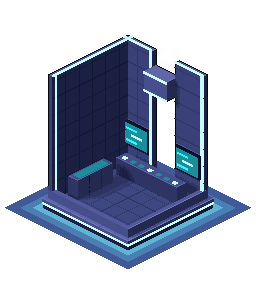
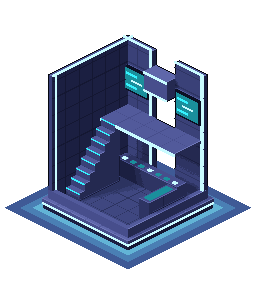
GRID-35: the opened tower and hall are drawn with their floors and stairs
Every upper floor reaches two floor squares out from the back wall. A stair
goes up the left wall to the first floor; in the tower a second goes up along
the back wall and comes out through the second floor. A bot inside a tall
building is drawn on its floor, a step up from the paving, and a test holds
the floors in the pictures to where the game stands a bot.

Changed region(s): [[0.25, 0.2188, 0.8125, 0.6875], [0.5312, 0.625, 0.7188, 0.7812], [0.6562, 0.3125, 0.8125, 0.4375]]

diff --git a/tools/art/buildings.py b/tools/art/buildings.py
@@ -175,9 +175,41 @@ def rack(x, y, along_back):
             light(x + .19, y, .42 + i * .19, .012, .38, .07, "teal" if i % 2 else "cyan")
 
 
+# A tall building has floors. The game stands bots on them (Core/Layout.cs: StoreyPixels, FloorReach, the stairs' ends), and
+# a test holds the two together, so change these only with those.
+STOREY = 1.5                    # from one floor to the next
+REACH = 2 * kit.PANEL           # how far an upper floor reaches out from the back wall: two floor squares
+
+
+def upper_floor(x0, x1, w, z, lit, depth=REACH, back=0.0):
+    """A floor along the back wall from x0 to x1, its top at z, with the line of light along its open edge. `back` leaves
+    it short of the wall by so much: the walk beside the well a stair comes up through."""
+    y1 = w / 2 - .14 - back
+    box((x0 + x1) / 2, y1 - (depth - back) / 2, z - .08, x1 - x0, depth - back, .08, "c0", "g4", "g2")
+    light((x0 + x1) / 2, w / 2 - .14 - depth - .012, z - .08, x1 - x0, .02, .08, lit)
+
+
+def stair(x0, y0, z0, x1, y1, steps=8, wide=.42):
+    """A flight up one storey from (x0, y0) to (x1, y1), along x or along y, as solid steps with a lit edge to each."""
+    along_y = abs(y1 - y0) > abs(x1 - x0)
+    run = (abs(y1 - y0) if along_y else abs(x1 - x0)) / steps
+    for i in range(steps):
+        t = (i + .5) / steps
+        x, y, top = x0 + (x1 - x0) * t, y0 + (y1 - y0) * t, z0 + STOREY * (i + 1) / steps
+        if along_y:
+            box(x, y, z0, wide, run, top - z0, "c0", "g4", "g2"); light(x, y - run / 2 - .006, top - .03, wide, .012, .03, "cyan")
+        else:
+            box(x, y, z0, run, wide, top - z0, "c0", "g4", "g2"); light(x, y - wide / 2 - .006, top - .03, run, .012, .03, "cyan")
+
+
+def first_stair(w):
+    """Up the left wall from the ground floor to the first, landing on it."""
+    stair(-.87, -.85, .25, -.87, .4)
+
+
 def server_tower_open():
-    """The server tower with a bot at work in it. Told by: racks along both far walls, storey on storey of them up the
-    inside, and two of its roof fans on a ledge over the back wall."""
+    """The server tower with a bot at work in it. Told by: racks along the back wall on each of its three floors, a stair
+    up the left wall and another up the back, and two of its roof fans on a ledge over the back wall."""
     w, h, lit = 2.5, 5.0, "cyanw"
     opened(w, w, h, lit)
     back_wall(0, w, w, h, lit)
@@ -191,28 +223,39 @@ def server_tower_open():
                 light(-w / 2 + .152, -.9 + i * .45, z + .1, .012, .3, .22, "teal")
     for x in (-.75, -.05, .65):
         rack(x, w / 2 - .42, True)
-    for y in (-.6, .15):
-        rack(-w / 2 + .42, y, False)
+    left, right, g1, g2 = -w / 2 + .14, w / 2 - .06, .25 + STOREY, .25 + 2 * STOREY
+    first_stair(w)
+    upper_floor(left, right, w, g1, lit)
+    stair(-.87, .87, g1, .05, .87, wide=.4)             # the second stair, up along the back wall from the left
+    upper_floor(.05, right, w, g2, lit)                 # the second floor: whole on the right,
+    upper_floor(left, .05, w, g2, lit, back=.44)        # and a walk past the well the stair comes up through
+    for z in (g1, g2):                                  # a rack on each upper floor
+        box(.75, w / 2 - .34, z, .52, .3, .8, "g5", "g3", "g2")
+        for i in range(3):
+            light(.75, w / 2 - .5, z + .15 + i * .2, .38, .012, .07, "cyan" if i % 2 else "teal")
     box(0, w / 2 - .5, h, w + .12, 1.1, .14, *TRIM); fan(-.6, w / 2 - .55, h + .14); fan(.6, w / 2 - .55, h + .14)
     render("b-server-tower-open", 256, 352, 80)
 
 
 def review_hall_open():
-    """The review hall with a bot at work in it. Told by: its back wall in two with the bridge across the top, two wall
-    screens side by side to compare, and a console of buttons under them."""
+    """The review hall with a bot at work in it. Told by: its back wall in two with the bridge across the top, an upper
+    floor with two wall screens side by side to compare, and a console of buttons on the ground under it."""
     w, h, lit = 2.5, 3.4, "cyanw"
     opened(w, w, h, lit)
     back_wall(-.8, .9, w, h, lit, right_edge=True); back_wall(.8, .9, w, h, lit, right_edge=True)
     box(0, w / 2 - .2, 2.5, .72, .4, .5, *TRIM)                                       # the bridge
     light(0, w / 2 - .41, 2.5, .72, .02, .05, lit); light(0, w / 2 - .41, 2.95, .72, .02, .05, lit)
-    for x in (-.8, .8):                                                               # a screen on each half of the wall
-        box(x, w / 2 - .18, .75, .78, .05, .62, "k1"); light(x, w / 2 - .21, .8, .68, .02, .52, "teal")
+    g1 = .25 + STOREY
+    first_stair(w)
+    upper_floor(-w / 2 + .14, w / 2 - .06, w, g1, lit)
+    for x in (-.8, .8):                                                               # a screen on each half of the wall, upstairs
+        box(x, w / 2 - .18, g1 + .4, .78, .05, .62, "k1"); light(x, w / 2 - .21, g1 + .45, .68, .02, .52, "teal")
         for i in range(3):
-            light(x - .12 + (i % 2) * .16, w / 2 - .225, .88 + i * .15, .34, .012, .05, "cyanw" if i == 1 else "cyan")
+            light(x - .12 + (i % 2) * .16, w / 2 - .225, g1 + .53 + i * .15, .34, .012, .05, "cyanw" if i == 1 else "cyan")
     box(0, w / 2 - .52, .25, 1.9, .32, .42, "g5", "g3", "g2")                         # the console, its buttons along the front
     for i in range(7):
         light(-.78 + i * .26, w / 2 - .56, .67, .12, .1, .02, "cyanw" if i % 3 == 0 else "teal")
-    box(-w / 2 + .38, -.3, .25, .3, 1.1, .5, "g5", "g3", "g2"); light(-w / 2 + .38, -.3, .75, .2, .9, .02, "teal")   # a reading desk
+    box(w / 2 - .3, 0, .25, .3, .9, .5, "g5", "g3", "g2"); light(w / 2 - .3, 0, .75, .2, .7, .02, "teal")   # a reading desk
     render("b-review-hall-open", 256, 288, 80)
 
 

diff --git a/Assets/TheGrid/Tests/LayoutTests.cs b/Assets/TheGrid/Tests/LayoutTests.cs
@@ -111,7 +111,7 @@ namespace TheGrid.Core.Tests
                     for (int slot = 0; slot < 6; slot++)
                     {
                         // the tile it stands over: a bot on an upper floor is drawn a storey up for each floor
-                        var t = Tile(Iso.BotSpot(Iso.PlotOrigin(cell), l, place, slot) - new Vector2(0, l.Floor(place, slot) * Layout.StoreyPixels));
+                        var t = Tile(Iso.BotSpot(Iso.PlotOrigin(cell), l, place, slot) - new Vector2(0, l.Lift(place, slot)));
                         var tile = new Vector2Int(Mathf.RoundToInt(t.x), Mathf.RoundToInt(t.y));
                         string who = "arrangement " + a + ": " + place + " slot " + slot + " at " + t;
                         Assert.IsTrue(t.x >= -.5f && t.y >= -.5f && t.x <= Iso.PlotTiles - .5f && t.y <= Iso.PlotTiles - .5f, who + " is off the plot");
@@ -221,20 +221,26 @@ namespace TheGrid.Core.Tests
                     for (int floor = 0; floor < floors; floor++)
                         Assert.AreEqual(Layout.Inside / floors, on.Count(f => f == floor), "arrangement " + a + ": " + place + " floor " + floor);
                     Assert.AreEqual(0, l.Floor(place, Layout.Inside), "the one waiting at the door stands on the ground");
+                    Assert.AreEqual(0f, l.Lift(place, Layout.Inside), "and on the paving");
                     var f0 = l.Footprint(World.StructureOf(place).Value);
                     for (int slot = 0; slot < Layout.Inside; slot++)
                     {
                         var origin = new Vector2Int(7, -30);
                         var t = l.Spot(place, slot);
-                        // a floor up is so many pixels up the screen, whatever the floor
-                        Assert.AreEqual(Iso.Point(origin.x + t.x, origin.y + t.y).y + l.Floor(place, slot) * Layout.StoreyPixels, Iso.BotSpot(origin, l, place, slot).y, .01f);
+                        // the floor of the room is a step up from the paving, and a floor up is so many pixels more, whatever the floor
+                        Assert.AreEqual(Layout.FloorPixels + l.Floor(place, slot) * Layout.StoreyPixels, l.Lift(place, slot), .01f);
+                        Assert.AreEqual(Iso.Point(origin.x + t.x, origin.y + t.y).y + l.Lift(place, slot), Iso.BotSpot(origin, l, place, slot).y, .01f);
                         // an upper floor reaches two floor squares out from the back wall: who stands on it stands within them
                         if (l.Floor(place, slot) > 0)
                             Assert.IsTrue(t.y - f0.yMin > -.1f && t.y - f0.yMin < Layout.FloorReach - .1f, "arrangement " + a + ": " + place + " slot " + slot + " at " + t + " is off its floor");
                     }
                 }
                 foreach (var place in Places.Except(Tall))
-                    for (int slot = 0; slot < 8; slot++) Assert.AreEqual(0, l.Floor(place, slot), place.ToString());
+                    for (int slot = 0; slot < 8; slot++)
+                    {
+                        Assert.AreEqual(0, l.Floor(place, slot), place.ToString());
+                        Assert.AreEqual(0f, l.Lift(place, slot), place.ToString());
+                    }
             }
         }
 
@@ -265,8 +271,13 @@ namespace TheGrid.Core.Tests
                             if (i > 1) Assert.IsTrue(Within(p) && Within(q), who + ": leg " + i + " leaves the building");
                             if (p.z == q.z)
                             {
-                                // along a floor; an upper floor is only so deep
-                                if (p.z > 0) Assert.IsTrue(p.y - f.yMin < Layout.FloorReach - .1f && q.y - f.yMin < Layout.FloorReach - .1f, who + ": leg " + i + " walks off the edge of floor " + p.z);
+                                // along a floor; an upper floor is only so deep, and where a stair comes up through it there is
+                                // only a walk along its edge: so up there a bot turns square corners
+                                if (p.z > 0)
+                                {
+                                    Assert.IsTrue(p.y - f.yMin < Layout.FloorReach - .1f && q.y - f.yMin < Layout.FloorReach - .1f, who + ": leg " + i + " walks off the edge of floor " + p.z);
+                                    Assert.IsTrue(p.x == q.x || p.y == q.y, who + ": leg " + i + " cuts a corner on floor " + p.z);
+                                }
                                 continue;
                             }
                             // a stair: one floor up, along a wall, long enough to be a stair
@@ -286,6 +297,12 @@ namespace TheGrid.Core.Tests
                 var points = Iso.Way(origin, l, Place.ServerTower, 2);
                 Assert.AreEqual(l.Way(Place.ServerTower, 2).Count, points.Count);
                 Assert.AreEqual(Iso.BotSpot(origin, l, Place.ServerTower, 2), points[points.Count - 1]);
+                var door = l.Way(Place.ServerTower, 2)[0];
+                Assert.AreEqual(Iso.Point(origin.x + door.x, origin.y + door.y), points[0], "the door is on the paving");
+                // the second floor is reached from the left, where a bot on the stair is not behind the building next along
+                var up = l.Way(Place.ServerTower, 2);
+                var corner = l.Footprint(Structure.ServerTower);
+                foreach (var p in up.Skip(1)) Assert.Less(p.x - corner.xMin - (p.y - corner.yMin), 1f, "arrangement " + a + ": the way up the tower goes behind the next building at " + p);
             }
         }
 

diff --git a/Assets/TheGrid/Core/Layout.cs b/Assets/TheGrid/Core/Layout.cs
@@ -117,28 +117,39 @@ namespace TheGrid.Core
         // How far an upper floor reaches from the back row of the building's footprint, in tiles: its open edge.
         public const float FloorReach = .73f;
 
+        // The floor of a tall building's room is a step up from the paving: this many pixels.
+        public const float FloorPixels = 10f;
+
+        // How far up the screen a bot is drawn from the paving under it: nothing in the open, the step inside a tall
+        // building, and a storey more for each floor up.
+        public float Lift(Place place, int slot) => Tall(place) >= 0 && slot < Inside ? FloorPixels + Floor(place, slot) * StoreyPixels : 0;
+
         public static int Floors(Structure s) => s == Structure.ServerTower ? 3 : s == Structure.ReviewHall ? 2 : 1;
 
         // Where the six stand in each tall building, from the corner of its footprint: column, row and floor. In the order
         // of the slots, which spreads them over the floors. On the ground they are clear of the racks along the far
-        // walls; on a gallery they stand near its open edge, where the floor above does not hide them. None stands in the
-        // far right of a floor: the building next along the back row, a tile away, would hide it behind its corner.
+        // walls. On an upper floor they stand on its walk, near the open edge, where the floor above does not hide them,
+        // and clear of the head of the stair. None stands in the far right of a floor: the building next along the back
+        // row, a tile away, would hide it behind its corner.
         static readonly Vector3[][] InATall =
         {
             // the server tower: two to a floor
-            new[] { new Vector3(1.25f, .9f, 0), new Vector3(.55f, .45f, 1), new Vector3(.4f, .45f, 2), new Vector3(.9f, 1.7f, 0), new Vector3(1.1f, .45f, 1), new Vector3(.95f, .45f, 2) },
+            new[] { new Vector3(1.25f, .9f, 0), new Vector3(.55f, Walk, 1), new Vector3(.4f, Walk, 2), new Vector3(.9f, 1.7f, 0), new Vector3(1.1f, Walk, 1), new Vector3(.95f, Walk, 2) },
             // the review hall: three to a floor
-            new[] { new Vector3(1f, 1.2f, 0), new Vector3(.25f, .45f, 1), new Vector3(.55f, 1.65f, 0), new Vector3(.7f, .45f, 1), new Vector3(1.6f, 1.7f, 0), new Vector3(1.12f, .45f, 1) },
+            new[] { new Vector3(1f, 1.2f, 0), new Vector3(.4f, Walk, 1), new Vector3(.55f, 1.65f, 0), new Vector3(.76f, Walk, 1), new Vector3(1.6f, 1.7f, 0), new Vector3(1.12f, Walk, 1) },
             // the works: one floor
             new[] { new Vector3(1.25f, .85f, 0), new Vector3(.6f, 1.45f, 0), new Vector3(1.9f, 1.45f, 0), new Vector3(.6f, .85f, 0), new Vector3(1.25f, 2f, 0), new Vector3(1.9f, 2f, 0) },
         };
 
-        // The way in and up, the same in every tall building, from the corner of its footprint: the door in the middle of
-        // the front; a stair up the left wall to the first gallery; and from the far end of that gallery a stair along
-        // the back wall to the second.
-        static readonly Vector2 Door = new Vector2(1.25f, 2.9f);
+        // The way in and up, from the corner of the building's footprint. The door is where the closed picture has it. A
+        // stair goes up the left wall to the first floor. From the back of that floor a second goes up along the back wall,
+        // from the left, and comes out through the second floor; a bot steps off it onto the walk along that floor's edge.
+        // The way up keeps to the left of the building: further right it would be behind the building next along.
+        static readonly Vector2[] Door = { new Vector2(.38f, 2.9f), new Vector2(.2f, 2.9f), new Vector2(1.5f, 2.9f) };
         static readonly Vector2 FirstStairFoot = new Vector2(.13f, 1.85f), FirstStairTop = new Vector2(.13f, .6f);
-        static readonly Vector2 SecondStairApproach = new Vector2(1.95f, .45f), SecondStairFoot = new Vector2(1.95f, .13f), SecondStairTop = new Vector2(1.05f, .13f);
+        static readonly Vector2 SecondStairFoot = new Vector2(.13f, .13f), SecondStairTop = new Vector2(1.05f, .13f);
+        // The row a bot walks and stands on, on an upper floor.
+        const float Walk = .45f;
 
         static int Tall(Place place) => place == Place.ServerTower ? 0 : place == Place.ReviewHall ? 1 : place == Place.Works ? 2 : -1;
 
@@ -162,9 +173,10 @@ namespace TheGrid.Core
             var corner = template.tall[order[which]];
             void Add(Vector2 at, int floor) => way.Add(new Vector3(corner.x + at.x, corner.y + at.y, floor));
             var spot = InATall[which][slot];
-            Add(Door, 0);
+            Add(Door[which], 0);
             if (spot.z >= 1) { Add(FirstStairFoot, 0); Add(FirstStairTop, 1); }
-            if (spot.z >= 2) { Add(SecondStairApproach, 1); Add(SecondStairFoot, 1); Add(SecondStairTop, 2); }
+            if (spot.z >= 2) { Add(SecondStairFoot, 1); Add(SecondStairTop, 2); Add(new Vector2(SecondStairTop.x, Walk), 2); }
+            else if (spot.z >= 1) Add(new Vector2(FirstStairTop.x, Walk), 1);
             Add(spot, (int)spot.z);
             return way;
         }

diff --git a/Assets/TheGrid/Tests/ArtTests.cs b/Assets/TheGrid/Tests/ArtTests.cs
@@ -299,6 +299,33 @@ namespace TheGrid.Core.Tests
         }
 
         [Test]
+        public void AnUpperFloorIsDrawnWhereTheGameStandsABotOnIt()
+        {
+            // The game stands a bot on an upper floor so many pixels up (Layout.Lift), within so far of the back
+            // (Layout.FloorReach). The art script draws the floors. This holds the two together: straight out from every
+            // such bot, at the open edge of its floor, the picture shows the line of light that runs along that edge.
+            var l = Layout.Of(0);
+            int seen = 0;
+            foreach (var place in new[] { Place.ServerTower, Place.ReviewHall })
+            {
+                var s = World.StructureOf(place).Value;
+                var e = Find(ArtNames.Opened[(int)s]);
+                var t = Load(e.name).texture;
+                for (int slot = 0; slot < Layout.Inside; slot++)
+                {
+                    if (l.Floor(place, slot) == 0) continue;
+                    var feet = Iso.BotSpot(Vector2Int.zero, l, place, slot) - Iso.StructureSpot(Vector2Int.zero, l, s);
+                    float rows = l.Footprint(s).yMin + Layout.FloorReach - l.Spot(place, slot).y;     // from the bot out to the edge
+                    int x = e.groundX + Mathf.RoundToInt(feet.x - rows * 32), y = e.groundY + Mathf.RoundToInt(feet.y - rows * 16);
+                    bool lit = Enumerable.Range(y - 6, 9).Any(row => ((Color32)t.GetPixel(x, row)).Equals(Highlight));
+                    Assert.IsTrue(lit, e.name + ": no floor edge in front of slot " + slot + " on floor " + l.Floor(place, slot) + ", looked at " + x + "," + y);
+                    seen++;
+                }
+            }
+            Assert.AreEqual(7, seen, "four in the tower and three in the hall stand on an upper floor");
+        }
+
+        [Test]
         public void AnOpenedBuildingStandsWhereItsClosedPictureDoesAndShowsItsFloor()
         {
             for (int s = 0; s < ArtNames.Opened.Length; s++)

diff --git a/Assets/TheGrid/Core/Iso.cs b/Assets/TheGrid/Core/Iso.cs
@@ -76,7 +76,7 @@ namespace TheGrid.Core
             var o = origin;
             var at = layout.Spot(place, slot);
             // A bot on an upper floor is drawn a storey up the screen for each floor.
-            return Point(o.x + at.x, o.y + at.y) + new Vector2(0, layout.Floor(place, slot) * Layout.StoreyPixels);
+            return Point(o.x + at.x, o.y + at.y) + new Vector2(0, layout.Lift(place, slot));
         }
 
         // True for a point of the map, in art pixels, that is on a sector's depot or on one of the crates shown in front
@@ -99,7 +99,11 @@ namespace TheGrid.Core
         public static List<Vector2> Way(Vector2Int origin, Layout layout, Place place, int slot)
         {
             var points = new List<Vector2>();
-            foreach (var p in layout.Way(place, slot)) points.Add(Point(origin.x + p.x, origin.y + p.y) + new Vector2(0, p.z * Layout.StoreyPixels));
+            var way = layout.Way(place, slot);
+            // The door, where a way of more than one point starts, is on the paving; the rest is on the building's floors.
+            float room = layout.Lift(place, slot) - layout.Floor(place, slot) * Layout.StoreyPixels;
+            for (int i = 0; i < way.Count; i++)
+                points.Add(Point(origin.x + way[i].x, origin.y + way[i].y) + new Vector2(0, i == 0 && way.Count > 1 ? 0 : room + way[i].z * Layout.StoreyPixels));
             return points;
         }
 
